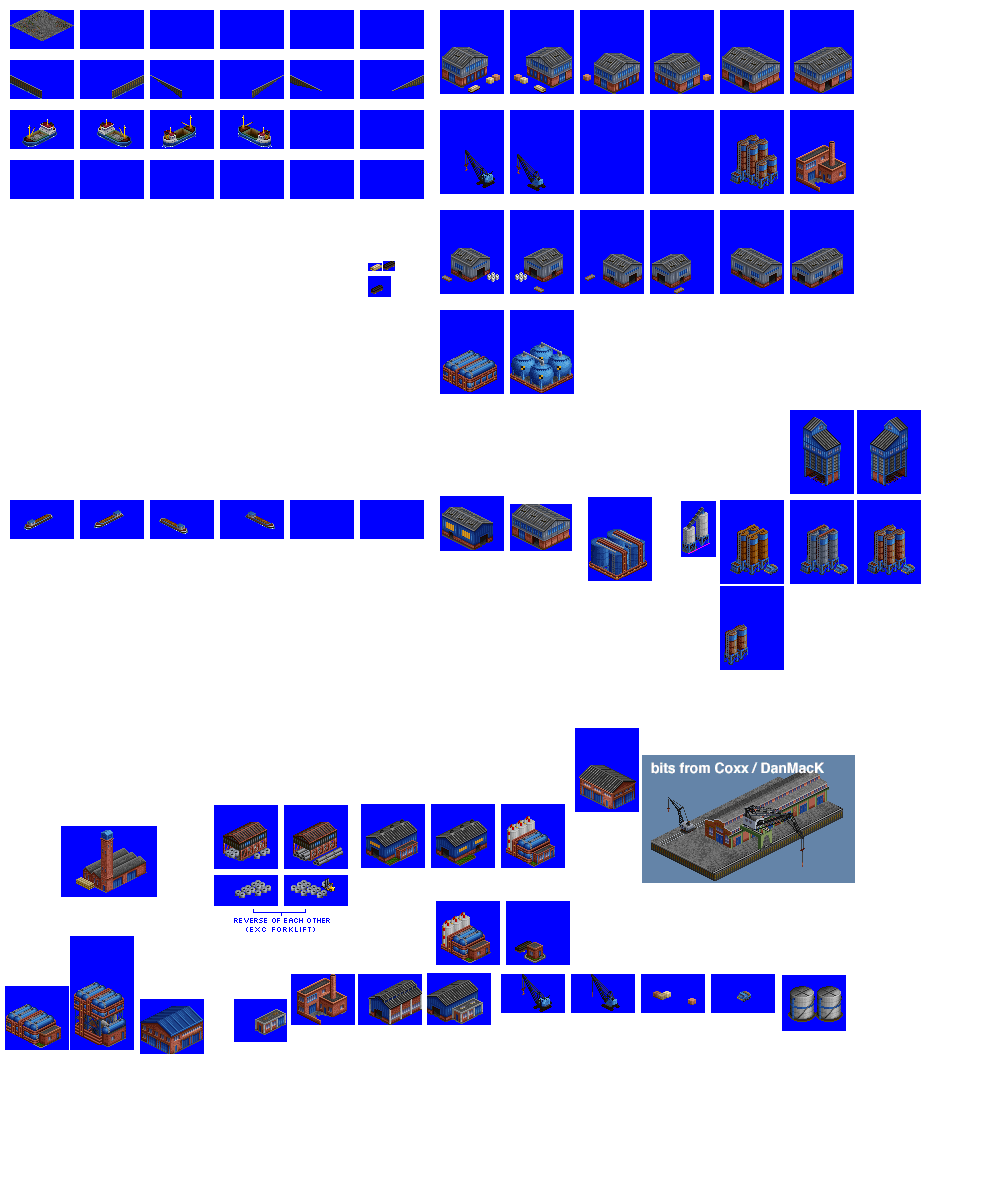
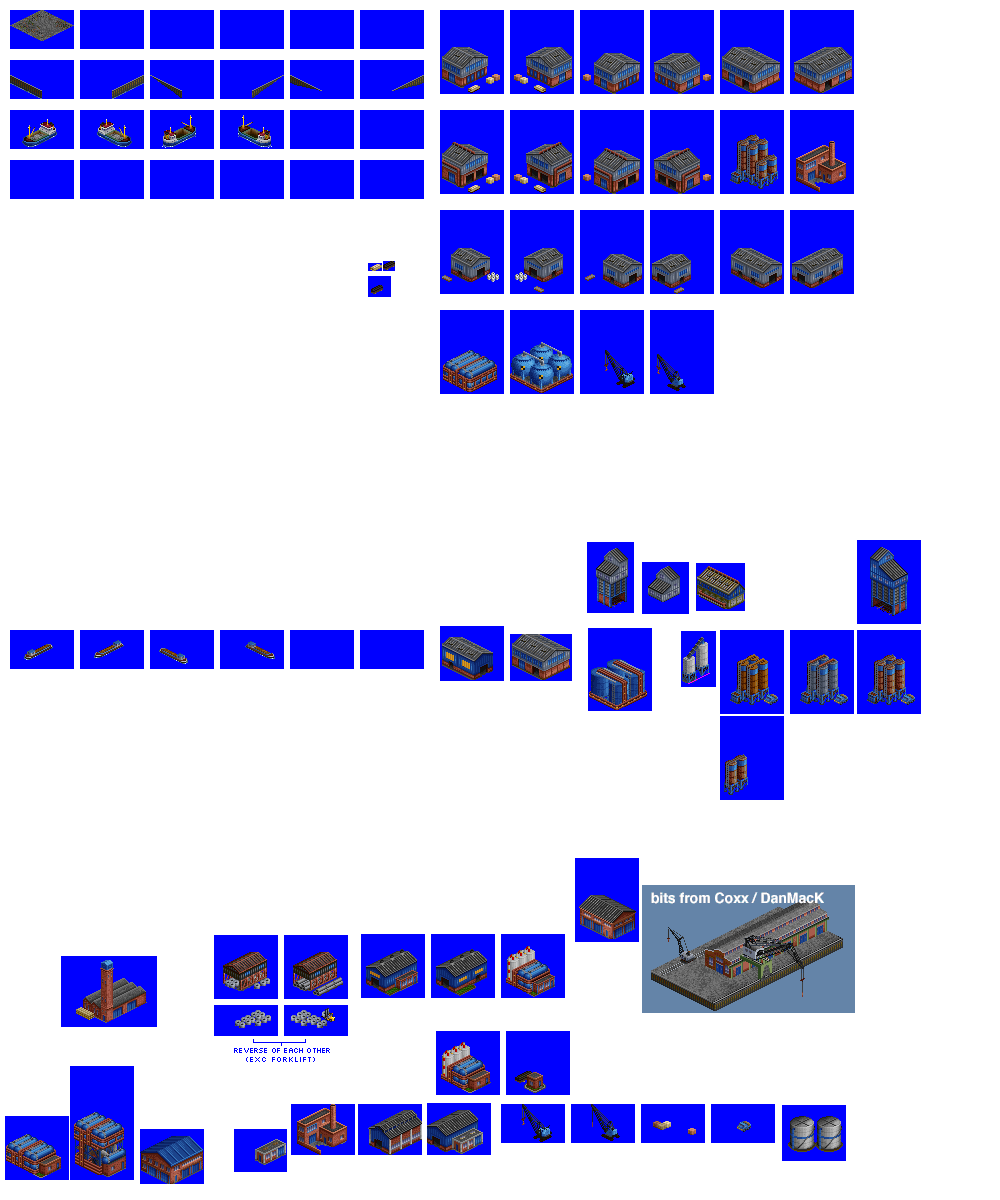
Change: tweaks to Port sprites for silo/bulk handling

Changed region(s): [[0.0, 0.3392, 0.93, 0.9867], [0.558, 0.2467, 0.713, 0.3392], [0.434, 0.1233, 0.713, 0.185]]

diff --git a/src/industries/port.py b/src/industries/port.py
@@ -200,7 +200,7 @@ spriteset_tanks_sphere_sw_ne = industry.add_spriteset(
 )
 # sphere tanks use the same sprite, but adjusted offsets for each coast
 spriteset_silos_nw_se = industry.add_spriteset(
-    sprites=[(720, 110, 64, 84, -31, -61)],
+    sprites=[(720, 110, 64, 84, -33, -60)],
 )
 spriteset_silos_ne_sw = industry.add_spriteset(
     sprites=[(720, 110, 64, 84, -31, -61)],
@@ -211,16 +211,28 @@ spriteset_silos_se_nw = industry.add_spriteset(
 spriteset_silos_sw_ne = industry.add_spriteset(
     sprites=[(720, 110, 64, 84, -33, -60)],
 )
+spriteset_bulk_handling_nw_se = industry.add_spriteset(
+    sprites=[(440, 110, 64, 84, -31, -61)],
+)
+spriteset_bulk_handling_ne_sw = industry.add_spriteset(
+    sprites=[(510, 110, 64, 84, -31, -61)],
+)
+spriteset_bulk_handling_se_nw = industry.add_spriteset(
+    sprites=[(580, 110, 64, 84, -31, -61)],
+)
+spriteset_bulk_handling_sw_ne = industry.add_spriteset(
+    sprites=[(650, 110, 64, 84, -31, -61)],
+)
 spriteset_gatehouse = industry.add_spriteset(
     sprites=[(790, 110, 64, 84, -31, -61)],
 )
 # only 2 angles for crawler crane, to keep things visually simple
 spriteset_crawler_crane_ne_sw = industry.add_spriteset(
-    sprites=[(440, 110, 64, 84, -31, -43)],
+    sprites=[(580, 310, 64, 84, -31, -43)],
     zoffset=18,
 )
 spriteset_crawler_crane_nw_se = industry.add_spriteset(
-    sprites=[(510, 110, 64, 84, -31, -43)],
+    sprites=[(650, 310, 64, 84, -31, -43)],
     zoffset=18,
 )
 # there are 2 variations of the ship, (reversed, unreversed) with coast appropriate offsets for each
@@ -353,7 +365,7 @@ industry.add_magic_spritelayout(
 )
 industry.add_magic_spritelayout(
     type="jetty_auto_orient_to_coast_direction",
-    base_id="port_spritelayout_silos_1_auto_orient",
+    base_id="port_spritelayout_silos_auto_orient",
     tile="port_tile_1",
     config={
         "ground_sprite": spriteset_ground_empty,  # should always be empty for this magic spritelayout
@@ -371,6 +383,34 @@ industry.add_magic_spritelayout(
             ],
             "ne": [
                 spriteset_silos_sw_ne,
+            ],
+        },
+    },
+)
+industry.add_magic_spritelayout(
+    type="jetty_auto_orient_to_coast_direction",
+    base_id="port_spritelayout_bulk_handling_auto_orient",
+    tile="port_tile_1",
+    config={
+        "ground_sprite": spriteset_ground_empty,  # should always be empty for this magic spritelayout
+        "foundation_sprites": [spriteset_jetty_ne_sw, spriteset_jetty_se_nw],
+        "jetty_top_sprites": [spriteset_concrete],
+        "building_sprites": {
+            "se": [
+                spriteset_warehouse_half_nw_se,
+                spriteset_bulk_handling_nw_se,
+            ],
+            "sw": [
+                spriteset_warehouse_half_ne_sw,
+                spriteset_bulk_handling_ne_sw,
+            ],
+            "nw": [
+                spriteset_warehouse_half_se_nw,
+                spriteset_bulk_handling_se_nw,
+            ],
+            "ne": [
+                spriteset_warehouse_half_sw_ne,
+                spriteset_bulk_handling_sw_ne,
             ],
         },
     },
@@ -560,11 +600,11 @@ industry.add_industry_jetty_layout(
     id="port_industry_jetty_layout_1",
     layout=[
         # ensure spacing from coast, to improve map-gen buildabilty
-        (0, 2, "port_spritelayout_shed_full_auto_orient"),
-        (0, 3, "port_spritelayout_shed_half_1_auto_orient"),
-        (0, 4, "port_spritelayout_silos_1_auto_orient"),
-        (0, 5, "port_spritelayout_silos_1_auto_orient"),
-        (0, 6, "port_spritelayout_warehouse_half_auto_orient"),
+        (0, 2, "port_spritelayout_warehouse_full_auto_orient"),
+        (0, 3, "port_spritelayout_warehouse_half_auto_orient"),
+        (0, 4, "port_spritelayout_silos_auto_orient"),
+        (0, 5, "port_spritelayout_silos_auto_orient"),
+        (0, 6, "port_spritelayout_bulk_handling_auto_orient"),
         (0, 7, "spritelayout_null_water"),
         (1, 0, "port_spritelayout_coast_gatehouse"),
         (1, 1, "port_spritelayout_warehouse_full_auto_orient"),
@@ -579,7 +619,7 @@ industry.add_industry_jetty_layout(
         # ensure spacing from coast, to improve map-gen buildabilty
         (2, 2, "port_spritelayout_shed_half_2_auto_orient"),
         (2, 3, "port_spritelayout_shed_full_auto_orient"),
-        (2, 4, "port_spritelayout_warehouse_half_auto_orient"),
+        (2, 4, "port_spritelayout_bulk_handling_auto_orient"),
         (2, 5, "port_spritelayout_tanks_small_auto_orient"),
         (2, 6, "port_spritelayout_tanks_sphere_auto_orient"),
         (2, 7, "spritelayout_null_water"),
@@ -598,15 +638,15 @@ industry.add_industry_jetty_layout(
         (0, 6, "spritelayout_null_water"),
         (0, 7, "spritelayout_null_water"),
         # ensure spacing from coast, to improve map-gen buildabilty
-        (1, 2, "port_spritelayout_silos_1_auto_orient"),
-        (1, 3, "port_spritelayout_silos_1_auto_orient"),
-        (1, 4, "port_spritelayout_warehouse_half_auto_orient"),
+        (1, 2, "port_spritelayout_silos_auto_orient"),
+        (1, 3, "port_spritelayout_silos_auto_orient"),
+        (1, 4, "port_spritelayout_bulk_handling_auto_orient"),
         (1, 5, "port_spritelayout_shed_full_auto_orient"),
         (1, 6, "port_spritelayout_shed_half_1_auto_orient"),
         (1, 7, "spritelayout_null_water"),
         (2, 0, "port_spritelayout_coast_gatehouse"),
-        (2, 1, "port_spritelayout_shed_full_auto_orient"),
-        (2, 2, "port_spritelayout_shed_half_1_auto_orient"),
+        (2, 1, "port_spritelayout_warehouse_full_auto_orient"),
+        (2, 2, "port_spritelayout_warehouse_half_auto_orient"),
         (2, 3, "port_spritelayout_warehouse_full_auto_orient"),
         (2, 4, "port_spritelayout_warehouse_half_auto_orient"),
         (2, 5, "port_spritelayout_water_ship_2_auto_orient"),
@@ -617,7 +657,7 @@ industry.add_industry_jetty_layout(
         # ensure spacing from coast, to improve map-gen buildabilty
         (3, 2, "port_spritelayout_tanks_small_auto_orient"),
         (3, 3, "port_spritelayout_tanks_sphere_auto_orient"),
-        (3, 4, "port_spritelayout_warehouse_half_auto_orient"),
+        (3, 4, "port_spritelayout_bulk_handling_auto_orient"),
         (3, 5, "port_spritelayout_warehouse_full_auto_orient"),
         (3, 6, "port_spritelayout_warehouse_half_auto_orient"),
         (3, 7, "spritelayout_null_water"),
